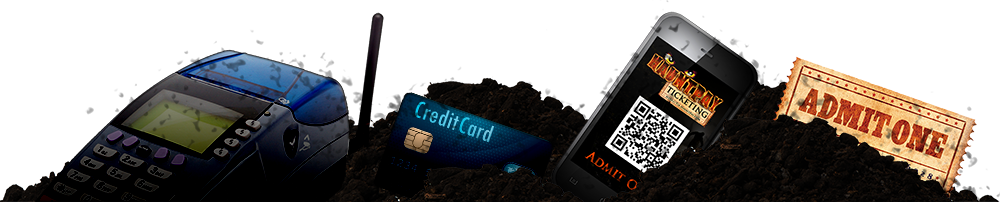
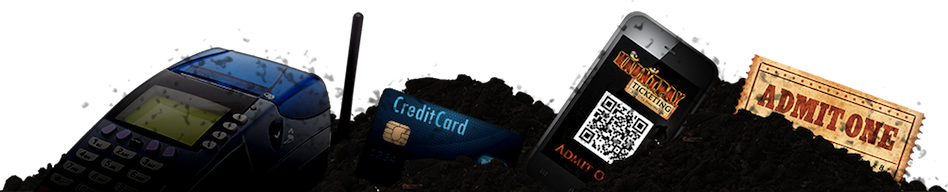
style changes to homepage

diff --git a/public/css/light.css b/public/css/light.css
@@ -8,7 +8,7 @@
 */
 
 
-body{ background: #181818; color: #444444; }
+body{ background: rgba(24,24,24,0.8); color: #444444; }
 
 
 /*
@@ -28,7 +28,7 @@ body{ background: #181818; color: #444444; }
 */
 
 /* ----- SLIDE 1 ----- */
-#slider .slide-1{ background: #181818; }
+#slider .slide-1{  }
 
 /*content*/
 #slider .slide-1 .content h1{ color: #E9E9E9; }
@@ -36,7 +36,7 @@ body{ background: #181818; color: #444444; }
 
 
 /* ----- SLIDE 2 ----- */
-#slider .slide-2{ background: #181818; color: #000000; }
+#slider .slide-2{ color: #000000; }
 
 /*content*/
 #slider .slide-2 .content .description{ color: #757575; }
@@ -44,7 +44,7 @@ body{ background: #181818; color: #444444; }
 
 
 /* ----- SLIDE 3 ----- */
-#slider .slide-3{ background: #181818; color: #000000; }
+#slider .slide-3{ color: #000000; }
 
 /*content*/
 #slider .slide-3 .content .description{ color: #757575; }
@@ -52,8 +52,8 @@ body{ background: #181818; color: #444444; }
 #slider .slide-3 .content h1{ color: #E9E9E9; }
 
 /*image*/
-#slider .slide-3 .image{ background: url('../images/slide/slide-ptrInv.jpg'); border-color: #212121; }
-#slider .slide-3 img{ border-color: #191919; }
+#slider .slide-3 .image{  }
+#slider .slide-3 img{  }
 
 
 /* ----- SLIDE 4 ----- */
@@ -76,14 +76,14 @@ body{ background: #181818; color: #444444; }
 ============================================================
 */
 
-#content{background: #E9E9E9; color: #000000; }
-#content .section-title h1{ color: #444444; }
+#content{color: #000000; }
+#content .section-title h1{ color: #E9E9E9; }
 #content .section-title p{ color: #757575; }
 #content .section-title .spText { }
 
 /* ----- FEATURES ----- */
-#content .box-feature-first h1, #content .box-feature-middle h1, #content .box-feature-last h1{ color: #444444; }
-#content .box-feature-first:hover, #content .box-feature-middle:hover, #content .box-feature-last:hover{ background: #e0e0e0; border-color: #d9d9d9; }
+#content .box-feature-first h1, #content .box-feature-middle h1, #content .box-feature-last h1{ color: #E9E9E9; }
+#content .box-feature-first:hover, #content .box-feature-middle:hover, #content .box-feature-last:hover{ background: rgba(24,24,24,0.8); border-color: #d9d9d9; }
 #content .box-feature-first p, #content .box-feature-middle p, #content .box-feature-last p{ color: #757575; }
 
 /* ----- PRICING TABLE ----- */

diff --git a/public/css/style.css b/public/css/style.css
@@ -7,8 +7,17 @@
 ============================================================
 */
 
+html {
+  background: url(../images/bg.jpg) no-repeat center center fixed; 
+  -webkit-background-size: cover;
+  -moz-background-size: cover;
+  -o-background-size: cover;
+  background-size: cover;
+}
 
-body{ font-family: Arial, sans-serif; font-size: 16px; }
+body{ 
+  font-family: Arial, sans-serif; font-size: 16px; 
+}
 h1, h2, h3, p{ margin: 0; padding: 0; }
 
 /*
@@ -91,7 +100,7 @@ ul.deletelist{ list-style-image: url(../images/list-cross.png); }
 
 /*image*/
 #slider .slide-2 .image{ margin: 0; padding: 0 }
-#slider .slide-2 .image img{ width: 390px; height: 353px; }
+#slider .slide-2 .image img{ margin-left: 20px; }
 
 
 /* ----- SLIDE 3 ----- */
@@ -105,8 +114,8 @@ ul.deletelist{ list-style-image: url(../images/list-cross.png); }
 #slider .slide-3 .content h1{ font-size: 200%; }
 
 /*image*/
-#slider .slide-3 .image{ margin: 0; border: 1px solid; border-radius: 5px; -moz-border-radius: 5px; -webkit-border-radius: 5px; }
-#slider .slide-3 img{ margin: 20px; border: 1px solid; width: 328px; height: 248px; border-radius: 8px; -moz-border-radius: 8px; -webkit-border-radius: 8px; }
+#slider .slide-3 .image{ margin: 0; border-radius: 5px; -moz-border-radius: 5px; -webkit-border-radius: 5px; }
+#slider .slide-3 img{ margin: -47px 20px 20px 20px; border-radius: 8px; -moz-border-radius: 8px; -webkit-border-radius: 8px; }
 
 
 
